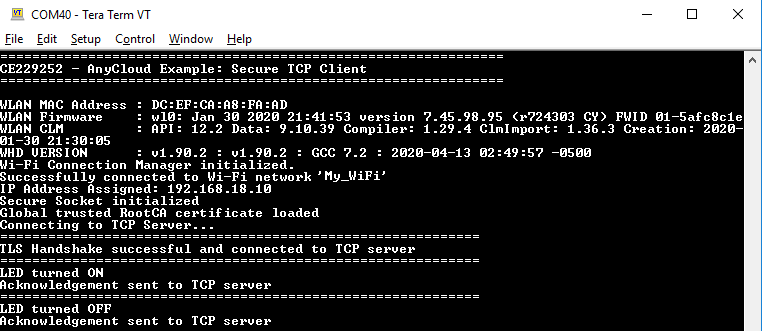
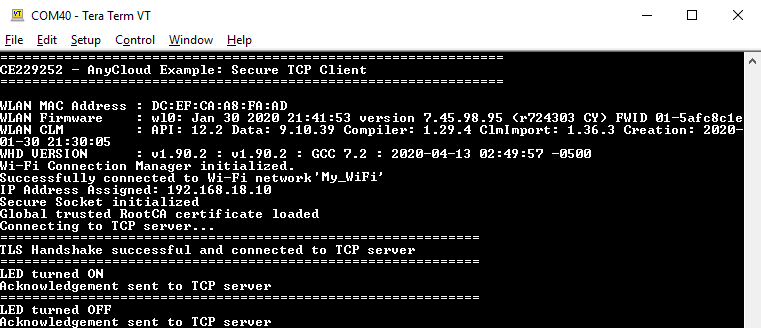
Upload mtb-example-anycloud-secure-tcp-client 1.2.0.54

Changed region(s): [[0.0, 0.0, 1.0, 1.0], [0.8765, 0.0305, 0.9369, 0.061]]

diff --git a/secure_tcp_client.c b/secure_tcp_client.c
@@ -44,6 +44,7 @@
 /* FreeRTOS header file. */
 #include <FreeRTOS.h>
 #include <task.h>
+#include <semphr.h>
 
 /* Standard C header file. */
 #include <string.h>
@@ -64,9 +65,6 @@
 /******************************************************************************
 * Macros
 ******************************************************************************/
-/* RTOS related macros. */
-#define RTOS_TASK_TICKS_TO_WAIT           (1000)
-
 #define LED_ON_CMD                         '1'
 #define LED_OFF_CMD                        '0'
 #define ACK_LED_ON                         "LED ON ACK"
@@ -99,8 +97,8 @@ void *tls_identity;
 /* TCP client socket handle */
 cy_socket_t client_handle;
 
-/* Variable to check if a TCP server is connected. */
-bool server_connected = false;
+/* Binary semaphore handle to keep track of secure TCP server connection. */
+SemaphoreHandle_t connect_to_server;
 
 /*******************************************************************************
  * Function Name: tcp_secure_client_task
@@ -120,13 +118,6 @@ void tcp_secure_client_task(void *arg)
 {
     cy_rslt_t result;
 
-    /* Connect to Wi-Fi AP */
-    if(connect_to_wifi_ap() != CY_RSLT_SUCCESS )
-    {
-        printf("\n Failed to connect to Wi-FI AP.\n");
-        CY_ASSERT(0);
-    }
-
     /* IP address and TCP port number of the TCP server to which the TCP client
      * connects to. */
     cy_socket_sockaddr_t tcp_server_address = {
@@ -134,6 +125,19 @@ void tcp_secure_client_task(void *arg)
             .ip_address.version = CY_SOCKET_IP_VER_V4,
             .port = TCP_SERVER_PORT
     };
+    
+    /* Create a binary semaphore to keep track of secure TCP server connection. */
+    connect_to_server = xSemaphoreCreateBinary();
+
+    /* Give the semaphore so as to connect to TCP server.  */
+    xSemaphoreGive(connect_to_server);   
+
+    /* Connect to Wi-Fi AP */
+    if(connect_to_wifi_ap() != CY_RSLT_SUCCESS )
+    {
+        printf("\n Failed to connect to Wi-FI AP.\n");
+        CY_ASSERT(0);
+    }
 
     /* TCP client certificate length and private key length. */
     const size_t tcp_client_cert_len = strlen( tcp_client_cert );
@@ -172,22 +176,20 @@ void tcp_secure_client_task(void *arg)
     }   
 
     for(;;)
-    {        
-        if(server_connected == false)
-        {       
-            /* Connect to the secure TCP server. If the connection fails, retry
-             * to connect to the server for MAX_TCP_SERVER_CONN_RETRIES times. */
-            printf("Connecting to TCP Server...\n");
-            result = connect_to_secure_tcp_server(tcp_server_address);
+    {
+        /* Wait till semaphore is acquired so as to connect to a secure TCP server. */
+        xSemaphoreTake(connect_to_server, portMAX_DELAY);
 
-            if(result != CY_RSLT_SUCCESS)
-            {
-                printf("Failed to connect to TCP server.\n");
-                CY_ASSERT(0);
-            }
+        /* Connect to the secure TCP server. If the connection fails, retry
+         * to connect to the server for MAX_TCP_SERVER_CONN_RETRIES times. */
+        printf("Connecting to TCP server...\n");
+        result = connect_to_secure_tcp_server(tcp_server_address);
+
+        if(result != CY_RSLT_SUCCESS)
+        {
+            printf("Failed to connect to TCP server.\n");
+            CY_ASSERT(0);
         }
-
-        vTaskDelay(RTOS_TASK_TICKS_TO_WAIT);
     }
  }
 
@@ -357,12 +359,11 @@ cy_rslt_t connect_to_secure_tcp_server(cy_socket_sockaddr_t address)
         {
             printf("============================================================\n");
             printf("TLS Handshake successful and connected to TCP server\n");
-            server_connected = true;
             return conn_result;
         }
 
-        printf("Could not connect to TCP Server.\n");
-        printf("Trying to reconnect to TCP Server...Please check if server is listening\n");
+        printf("Could not connect to TCP server.\n");
+        printf("Trying to reconnect to TCP server...Please check if server is listening\n");
 
         /* The resources allocated during the socket creation (cy_socket_create)
          * should be deleted.
@@ -460,9 +461,10 @@ cy_rslt_t tcp_disconnection_handler(cy_socket_t socket_handle, void *arg)
     /* Free the resources allocated to the socket. */
     cy_socket_delete(socket_handle);
 
-    /* Set the client connection flag as false. */
-    server_connected = false;
     printf("Disconnected from the TCP server! \n");
+
+    /* Give the semaphore so as to connect to TCP server.  */
+    xSemaphoreGive(connect_to_server);
 
     return result;
 }

diff --git a/FreeRTOSConfig.h b/FreeRTOSConfig.h
@@ -51,13 +51,9 @@
     extern uint32_t SystemCoreClock;
 #endif
 
-//
-// TODO - define in a way that uses the linker variables
-//
+#include "cycfg_system.h"
+
 #define configTOTAL_HEAP_SIZE                       ( ( size_t ) ( CY_SRAM_SIZE - (64 * 1024)))
-
-//#define configUSE_RTOS_HEAP                                           1
-
 #define configUSE_DAEMON_TASK_STARTUP_HOOK          0
 #define configUSE_PREEMPTION                        1
 #define configUSE_IDLE_HOOK                         0
@@ -109,30 +105,50 @@ to exclude the API function. */
 #define INCLUDE_xTaskIsTaskFinished     1
 #define INCLUDE_xTimerPendFunctionCall  1
 
-/* Cortex-M specific definitions. */
-#ifdef __NVIC_PRIO_BITS
-    /* __BVIC_PRIO_BITS will be specified when CMSIS is being used. */
-    #define configPRIO_BITS             __NVIC_PRIO_BITS
-#else
-    #define configPRIO_BITS             3        /* 15 priority levels */
-#endif
+/*
+Interrupt nesting behavior configuration.
+This is explained here: http://www.freertos.org/a00110.html
 
-/* The lowest interrupt priority that can be used in a call to a "set priority"
-function. */
-#define configLIBRARY_LOWEST_INTERRUPT_PRIORITY         0xf
+Priorities are controlled by two macros:
+- configKERNEL_INTERRUPT_PRIORITY determines the priority of the RTOS daemon task
+- configMAX_API_CALL_INTERRUPT_PRIORITY dictates the priority of ISRs that make API calls
 
-/* The highest interrupt priority that can be used by any interrupt service
-routine that makes calls to interrupt safe FreeRTOS API functions.  DO NOT CALL
-INTERRUPT SAFE FREERTOS API FUNCTIONS FROM ANY INTERRUPT THAT HAS A HIGHER
-PRIORITY THAN THIS! (higher priorities are lower numeric values. */
-#define configLIBRARY_MAX_SYSCALL_INTERRUPT_PRIORITY    5
+Notes:
+1. Interrupts that do not call API functions should be >= configKERNEL_INTERRUPT_PRIORITY
+   and will nest.
+2. Interrupts that call API functions must have priority between KERNEL_INTERRUPT_PRIORITY
+   and MAX_API_CALL_INTERRUPT_PRIORITY (inclusive).
+3. Interrupts running above MAX_API_CALL_INTERRUPT_PRIORITY are never delayed by the OS.
+*/
+/*
+PSoC 6 __NVIC_PRIO_BITS = 3
 
-/* Interrupt priorities used by the kernel port layer itself.  These are generic
-to all Cortex-M ports, and do not rely on any particular library functions. */
-#define configKERNEL_INTERRUPT_PRIORITY         ( configLIBRARY_LOWEST_INTERRUPT_PRIORITY << (8 - configPRIO_BITS) )
-/* !!!! configMAX_SYSCALL_INTERRUPT_PRIORITY must not be set to zero !!!!
-See http://www.FreeRTOS.org/RTOS-Cortex-M3-M4.html. */
-#define configMAX_SYSCALL_INTERRUPT_PRIORITY    ( configLIBRARY_MAX_SYSCALL_INTERRUPT_PRIORITY << (8 - configPRIO_BITS) )
+0 (high)
+1           MAX_API_CALL_INTERRUPT_PRIORITY 001xxxxx (0x3F)
+2
+3
+4
+5
+6
+7 (low)     KERNEL_INTERRUPT_PRIORITY       111xxxxx (0xFF)
+
+!!!! configMAX_SYSCALL_INTERRUPT_PRIORITY must not be set to zero !!!!
+See http://www.FreeRTOS.org/RTOS-Cortex-M3-M4.html
+
+*/
+
+/* Put KERNEL_INTERRUPT_PRIORITY in top __NVIC_PRIO_BITS bits of CM4 register */
+#define configKERNEL_INTERRUPT_PRIORITY         0xFF
+/*
+Put MAX_SYSCALL_INTERRUPT_PRIORITY in top __NVIC_PRIO_BITS bits of CM4 register
+NOTE For IAR compiler make sure that changes of this macro is reflected in
+file portable\IAR\CM4F\portasm.s in PendSV_Handler: routine
+*/
+#define configMAX_SYSCALL_INTERRUPT_PRIORITY    0x3F
+/* configMAX_API_CALL_INTERRUPT_PRIORITY is a new name for configMAX_SYSCALL_INTERRUPT_PRIORITY
+ that is used by newer ports only. The two are equivalent. */
+#define configMAX_API_CALL_INTERRUPT_PRIORITY   configMAX_SYSCALL_INTERRUPT_PRIORITY
+
     
 /* Normal assert() semantics without relying on the provision of an assert.h
 header file. */
@@ -164,7 +180,6 @@ extern void vApplicationSleep( uint32_t xExpectedIdleTime );
 #if CY_CFG_PWR_DEEPSLEEP_LATENCY > 0
 #define configEXPECTED_IDLE_TIME_BEFORE_SLEEP   CY_CFG_PWR_DEEPSLEEP_LATENCY
 #endif
-
 
 #endif /* FREERTOS_CONFIG_H */
 

diff --git a/main.c b/main.c
@@ -82,11 +82,14 @@ int main()
     cy_rslt_t result ;
 
     /* This enables RTOS aware debugging in OpenOCD */
-    uxTopUsedPriority = configMAX_PRIORITIES - 1 ;
+    uxTopUsedPriority = configMAX_PRIORITIES - 1;
 
     /* Initialize the board support package */
     result = cybsp_init() ;
-    CY_ASSERT(result == CY_RSLT_SUCCESS) ;
+    CY_ASSERT(result == CY_RSLT_SUCCESS);
+    
+    /* To avoid compiler warnings. */
+    (void) result;
 
     /* Enable global interrupts */
     __enable_irq();

diff --git a/README.md b/README.md
@@ -9,7 +9,7 @@ This example uses the [Wi-Fi Middleware Core](https://github.com/cypresssemicond
 - [ModusToolbox™ software](https://www.cypress.com/products/modustoolbox-software-environment) v2.1
 - Programming Language: C
 - Supported Toolchains: Arm® GCC, IAR
-- Associated Parts: All [PSoC 6 MCU](http://www.cypress.com/PSoC6) parts with SDIO, [CYW43012](https://www.cypress.com/documentation/product-overviews/cypress-cyw43012), [CYW4343W](https://www.cypress.com/documentation/datasheets/cyw4343w-single-chip-80211-bgn-macbasebandradio-bluetooth-41)
+- Associated Parts: All [PSoC® 6 MCU](http://www.cypress.com/PSoC6) parts with SDIO, [CYW43012](https://www.cypress.com/documentation/product-overviews/cypress-cyw43012), [CYW4343W](https://www.cypress.com/documentation/datasheets/cyw4343w-single-chip-80211-bgn-macbasebandradio-bluetooth-41)
 
 ## Supported Kits
 
@@ -55,7 +55,9 @@ For more details, see the Eclipse IDE for ModusToolbox User Guide: *{ModusToolbo
 
 1. Download and unzip this repository onto your local machine, or clone the repository.
 
-2. Open a CLI terminal and navigate to the application folder. On Linux and macOS, you can use any terminal application. On Windows, navigate to the modus-shell directory (*{ModusToolbox install directory}/tools_\<version>/modus-shell*) and run *Cygwin.bat*.
+2. Open a CLI terminal and navigate to the application folder.
+
+On Linux and macOS, you can use any terminal application. On Windows, navigate to the modus-shell directory (*{ModusToolbox install directory}/tools_\<version>/modus-shell*) and run *Cygwin.bat*.
 
 3. Import the required libraries by executing the `make getlibs` command.
 
@@ -67,7 +69,7 @@ For more details, see the Eclipse IDE for ModusToolbox User Guide: *{ModusToolbo
 
 3. Follow the instructions displayed in the terminal to create or import the application as an IDE project.
 
-For more details, see the *Exporting to IDEs* section of the ModusToolbox User Guide: *{ModusToolbox install directory}/ide_{version}/docs/mtb_user_guide.pdf*.
+For more details, see the "Exporting to IDEs" section of the ModusToolbox User Guide: *{ModusToolbox install directory}/ide_{version}/docs/mtb_user_guide.pdf*.
 
 ## Operation
 
@@ -75,7 +77,7 @@ For more details, see the *Exporting to IDEs* section of the ModusToolbox User G
 
 2. Modify `WIFI_SSID`, `WIFI_PASSWORD`, and `WIFI_SECURITY_TYPE` macros to match with that of the Wi-Fi network credentials that you want to connect. These macros are defined in the *network_credentials.h* file. Ensure that the Wi-Fi network that you are connecting to is configured as a private network for the proper functioning of this example.
 
-3. Ensure that your computer is connected to the same Wi-Fi access point that you configured in step 2.
+3. Ensure your computer is connected to the same Wi-Fi access point that you have configured in step 2.
 
 4. Determine the computer's IP address.
 
@@ -97,7 +99,7 @@ For more details, see the *Exporting to IDEs* section of the ModusToolbox User G
 
 7. Ensure Python interperter (see **Software Setup**) is installed on your computer
 
-8. Open a command shell from the project directory and run the python TCP secure server (*tcp_secure_server.py* ) . The python script is located under *{project directory}\python-secure-tcp-server*. Note that the script will not run in the *modus-shell*. In the command shell opened in the project directory, type in the following command:
+8. Open a command shell from the project directory and run the python TCP secure server (*tcp_secure_server.py* ) . The python script is located under *{project directory}\python-secure-tcp-server*. In the command shell opened in the project directory, type in the following command:
 
    ```
    python tcp_secure_server.py
@@ -149,7 +151,7 @@ For more details, see the *Exporting to IDEs* section of the ModusToolbox User G
 
 ## Debugging
 
-You can debug the example to step through the code. In the IDE, use the **\<Application Name> Debug (KitProg3)** configuration in the **Quick Panel**. For more details, see the *Program and Debug* section in the Eclipse IDE for ModusToolbox User Guide: *{ModusToolbox install directory}/ide_{version}/docs/mt_ide_user_guide.pdf*.
+You can debug the example to step through the code. In the IDE, use the **\<Application Name> Debug (KitProg3)** configuration in the **Quick Panel**. For more details, see the "Program and Debug" section in the Eclipse IDE for ModusToolbox User Guide: *{ModusToolbox install directory}/ide_{version}/docs/mt_ide_user_guide.pdf*.
 
 ## Design and Implementation
 
@@ -221,7 +223,7 @@ The *client.crt* file is your clients's certificate and *client.key* is your cli
 | Cypress Hardware Abstraction Layer (HAL) Library and docs          | [psoc6hal](https://github.com/cypresssemiconductorco/psoc6hal) on GitHub |
 | RetargetIO - A utility library to retarget the standard input/output (STDIO) messages to a UART port | [retarget-io](https://github.com/cypresssemiconductorco/retarget-io) on GitHub |
 | **Middleware**                                               |                                                              |
-| Wi-Fi Middleware Core  libraray                                    | [wifi-mw-core](https://github.com/cypresssemiconductorco/wifi-mw-core) on GitHub |
+| Wi-Fi Middleware Core  library                                    | [wifi-mw-core](https://github.com/cypresssemiconductorco/wifi-mw-core) on GitHub |
 | CapSense library and docs                                    | [capsense](https://github.com/cypresssemiconductorco/capsense) on GitHub |
 | Links to all PSoC 6 MCU Middleware                           | [psoc6-middleware](https://github.com/cypresssemiconductorco/psoc6-middleware) on GitHub |
 | **Tools**                                                    |                                                              |
@@ -241,13 +243,13 @@ Document Title: CE229252 - AnyCloud Example: Secure TCP Client
 | Version | Description of Change |
 | ------- | --------------------- |
 | 1.0.0   | New code example      |
-| 1.1.0   | Updated for ModusToobox 2.1. <br>Code updated to use Cypress Secure Sockets and Wi-Fi Connection Manager libraries.     |
-
+| 1.1.0   | Updated for ModusToobox 2.1. <br>Code updated to use Cypress Secure Sockets and Wi-Fi Connection Manager libraries. |
+| 1.2.0   | Makefile updated to sync with BSP changes. <br>Code updated to use binary semaphore. |
 ------
 
 All other trademarks or registered trademarks referenced herein are the property of their respective owners.
 
-![Banner](images/Banner.png)
+![banner](images/footer_banner.png)
 
 -------------------------------------------------------------------------------
 
